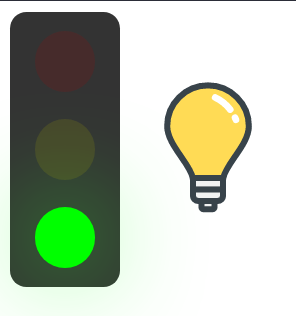
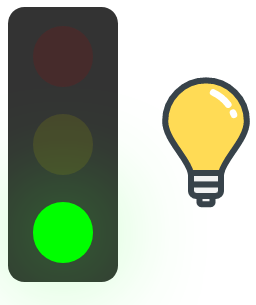
more img fix

Changed region(s): [[0.0, 0.0, 1.0, 0.9443], [0.5312, 0.2361, 1.0, 0.6787]]

diff --git a/README.md b/README.md
@@ -1,10 +1,6 @@
-<p align="center">
-  <a href="" rel="noopener">
-
-![screenshot](screenshot.png)
-
-
-</p>
+<div align="center">
+    ![screenshot](screenshot.png)
+</div>
 
 <h3 align="center">gotobed</h3>
 
